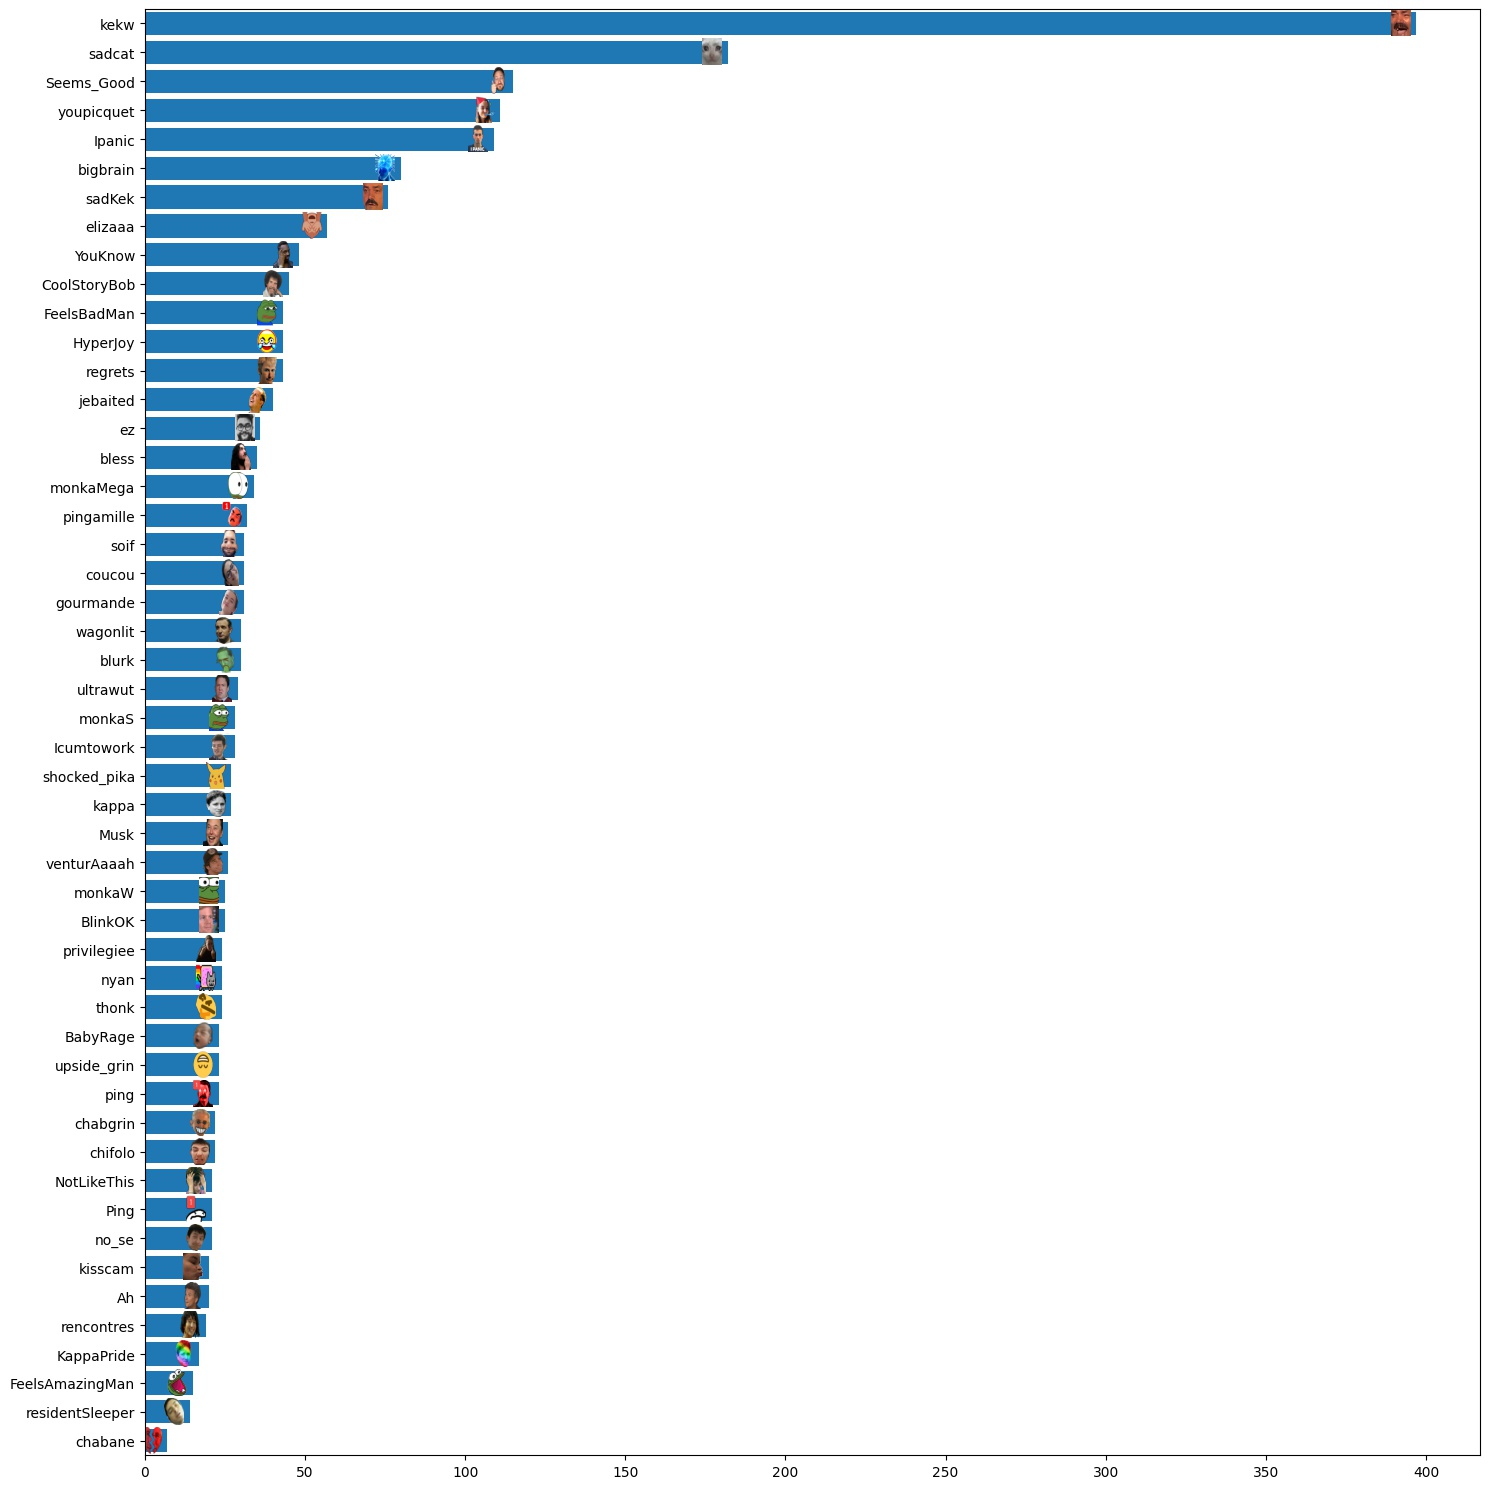
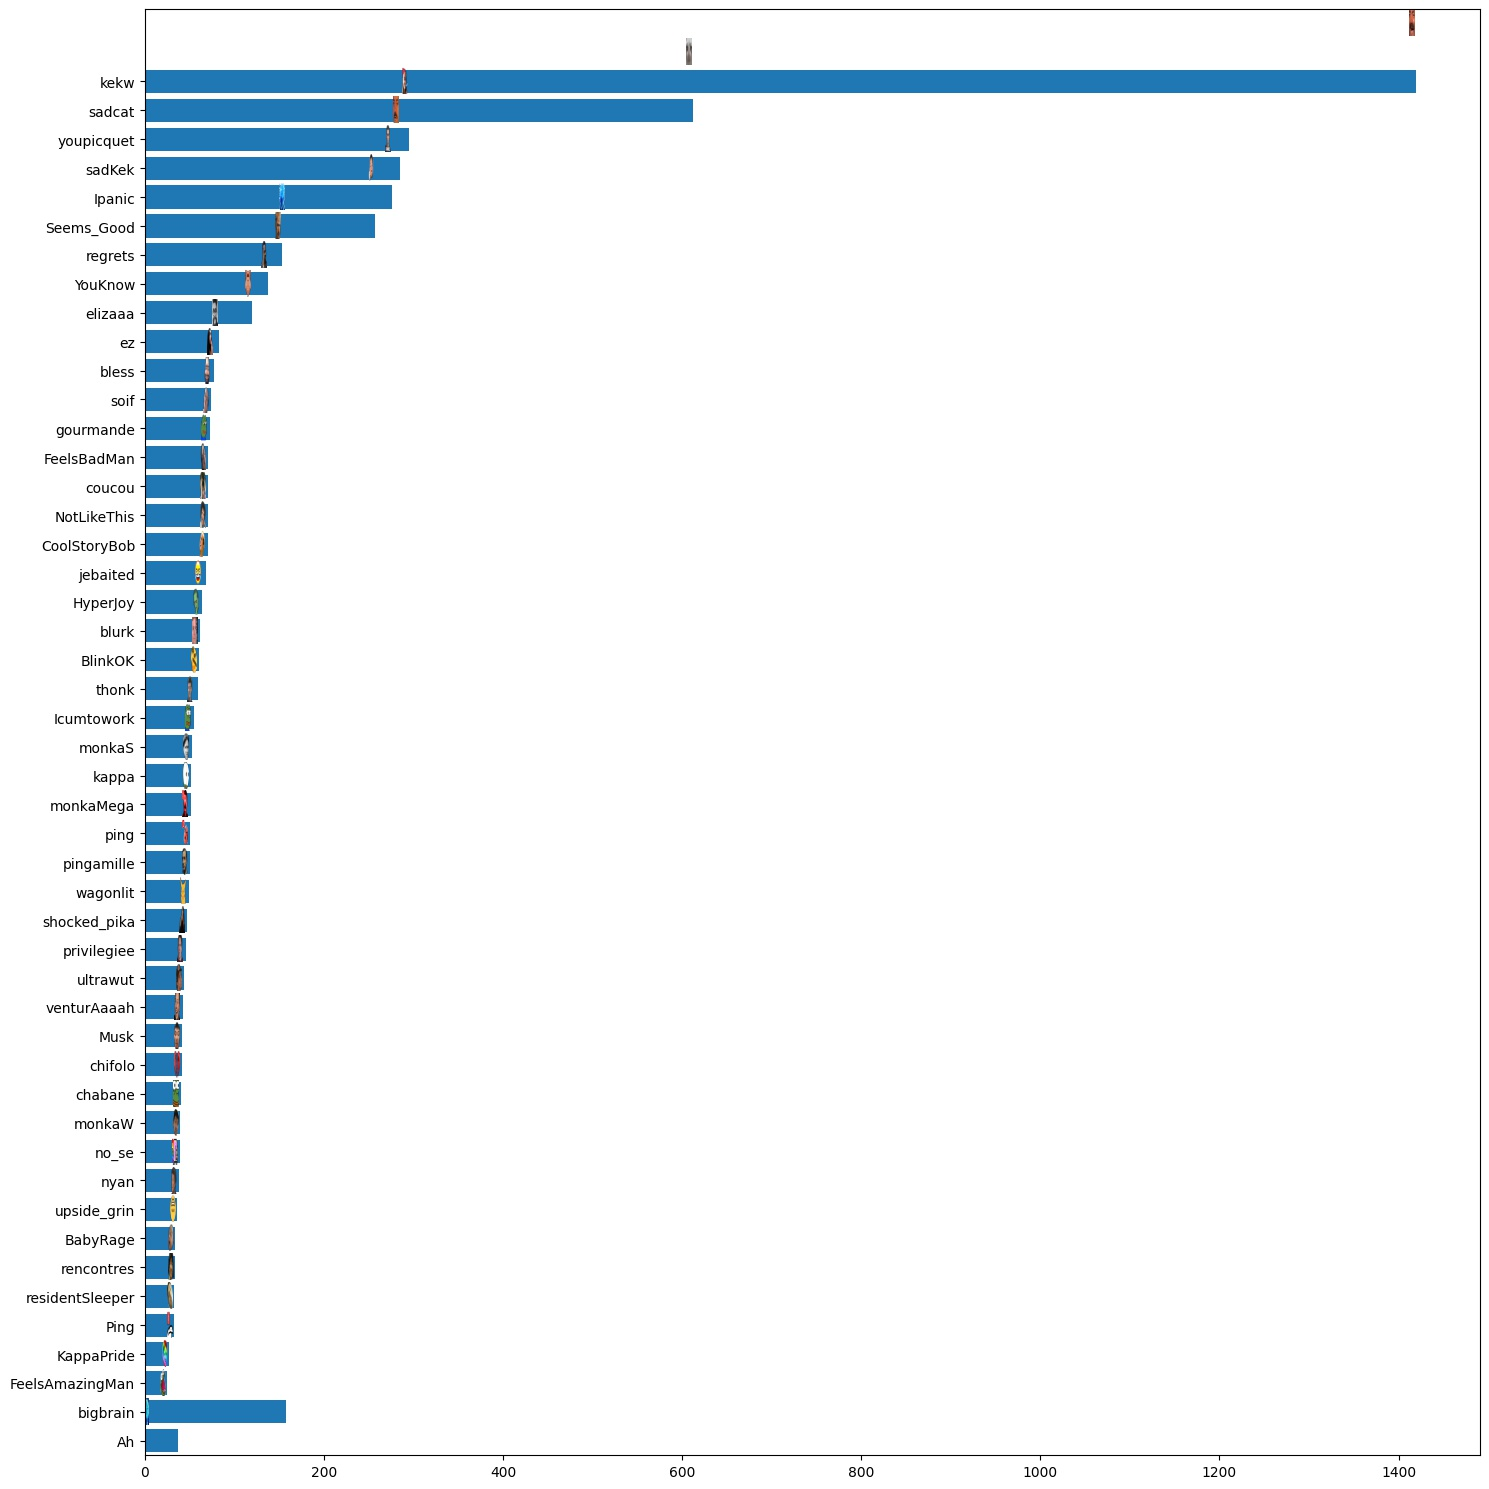
foo

diff --git a/main.py b/main.py
@@ -512,16 +512,6 @@ async def on_reaction_add(reaction, user):
         if name == "🔨" :
             await reaction.message.unpin(reason=f"{user}")
 
-    if name == "<:gourmande:654297183503384578>" :
-        await reaction.message.add_reaction("<:coucou:653592333681688586>")
-    if name == "<:coucou:653592333681688586>" :
-        await reaction.message.add_reaction("<:gourmande:654297183503384578>")
-    if name == "<:kekw:636583908334501899>":
-        for react in reaction.message.reactions :
-            if react.emoji.name == "kekw" :
-                if react.count == 5 :
-                    await react.message.channel.send("<:kekw:636583908334501899>")
-
     else :
         with open("reactions.json", "r", encoding="utf-8-sig") as reactionF :
             reactions = json.load(reactionF)
@@ -536,6 +526,14 @@ async def on_reaction_add(reaction, user):
         with open("reactions.json", "w+", encoding="utf-8-sig") as reactionF :
             json.dump(reactions, reactionF)
     # print(name)
+
+    if name == "<:gourmande:654297183503384578>":
+        await reaction.message.add_reaction("<:coucou:653592333681688586>")
+    if name == "<:coucou:653592333681688586>":
+        await reaction.message.add_reaction("<:gourmande:654297183503384578>")
+    for react in reaction.message.reactions:
+        if react.count == 7:
+            await react.message.channel.send(react)
 
 
 @bot.event
@@ -554,6 +552,7 @@ def get_emoji_url(emoji) :
 
 @bot.command()
 async def reactions(ctx) :
+
     with open("reactions.json", "r", encoding="utf-8-sig") as reactionF :
         reactions = json.load(reactionF)
 
@@ -561,37 +560,40 @@ async def reactions(ctx) :
     qtes = []
     imgs = []
     reactions = sorted(reactions.items(),
-                       key=lambda item: item[1], reverse=False)
-    for r in reactions :
-        emoji = get_emoji_url(r[0])
-        if emoji :
-            noms.append(emoji.name)
-            qtes.append(r[1])
-            imgs.append(emoji.url)
+                    key=lambda item: item[1], reverse=True)
 
-    fig, ax = plt.subplots(figsize=(15,15))
-    ax.barh(y=noms, width=qtes)
-    for i, (nom, qte, img) in enumerate(zip(noms, qtes, imgs)) :
-        response = requests.get(img)
-        img = plt.imread(BytesIO(response.content))
-        ax.imshow(
-            img, 
-            extent=[qte - 8, qte - 2, i - 0.9 / 2, i + 0.9 / 2],  
-            zorder=2,
-            aspect='auto'
-            )
+    # for r in reactions :
+    #     emoji = get_emoji_url(r[0])
+    #     if emoji :
+    #         noms.append(emoji.name)
+    #         qtes.append(r[1])
+    #         imgs.append(emoji.url)
 
-    plt.xlim(0, max(qtes) * 1.05)
-    plt.ylim(-0.5, len(noms) - 0.5)
-    plt.tight_layout()
-    plt.savefig("fig.jpg", bbox_inches='tight')
-    print("figure sauvegardée")
+    # fig, ax = plt.subplots(figsize=(15,15))
+    # ax.barh(y=noms, width=qtes)
+    # for i, (nom, qte, img) in enumerate(zip(noms, qtes, imgs)) :
+    #     response = requests.get(img)
+    #     img = plt.imread(BytesIO(response.content))
+    #     ax.imshow(
+    #         img, 
+    #         extent=[qte - 8, qte - 2, i - 0.9 / 2, i + 0.9 / 2],  
+    #         zorder=2,
+    #         aspect='auto'
+    #         )
 
+    # plt.xlim(0, max(qtes) * 1.05)
+    # plt.ylim(-0.5, len(noms) - 0.5)
+    # plt.tight_layout()
+    # plt.savefig("fig.jpg", bbox_inches='tight')
+    # print("figure sauvegardée")
 
+    # embed = discord.Embed()
+    # embed.set_image(url="attachment://fig.jpg")
+    # await ctx.send(file=discord.File("fig.jpg"), embed=embed)
 
 
     reactions = [f"{reaction[1]} : {reaction[0]}" for reaction in reactions]
-    # await ctx.send("> **Top des réactions :** \n> \n> " + "\t ".join(reactions))
+    await ctx.send("> **Top des réactions :** \n> \n> " + "\t ".join(reactions))
 
 #Comptage des messages, envoi de messages aléatoire et réaction aux messages ***
 @bot.event
@@ -763,6 +765,7 @@ async def on_command_error(ctx, error):
 Serv : {ctx.guild.name}\n\
 Salon : {ctx.channel.mention}")
         print(error)
+        await ctx.send("Quelquechose a chié quelquepart <:sadKek:761179051582291978>")
 
 #commande pour obtenir la latence du bot ***************************************
 @bot.command()
